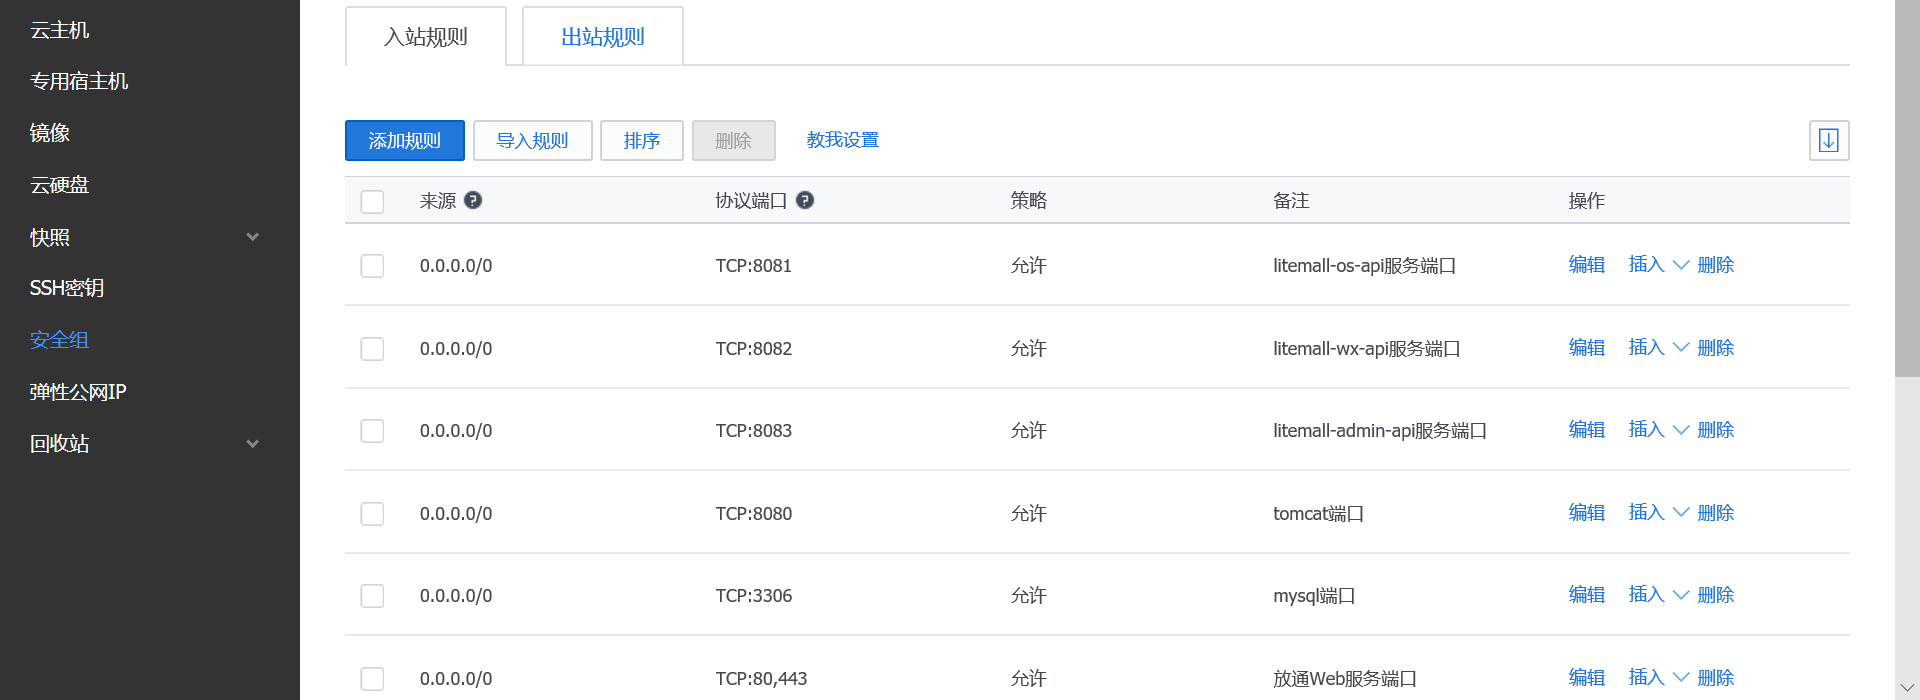
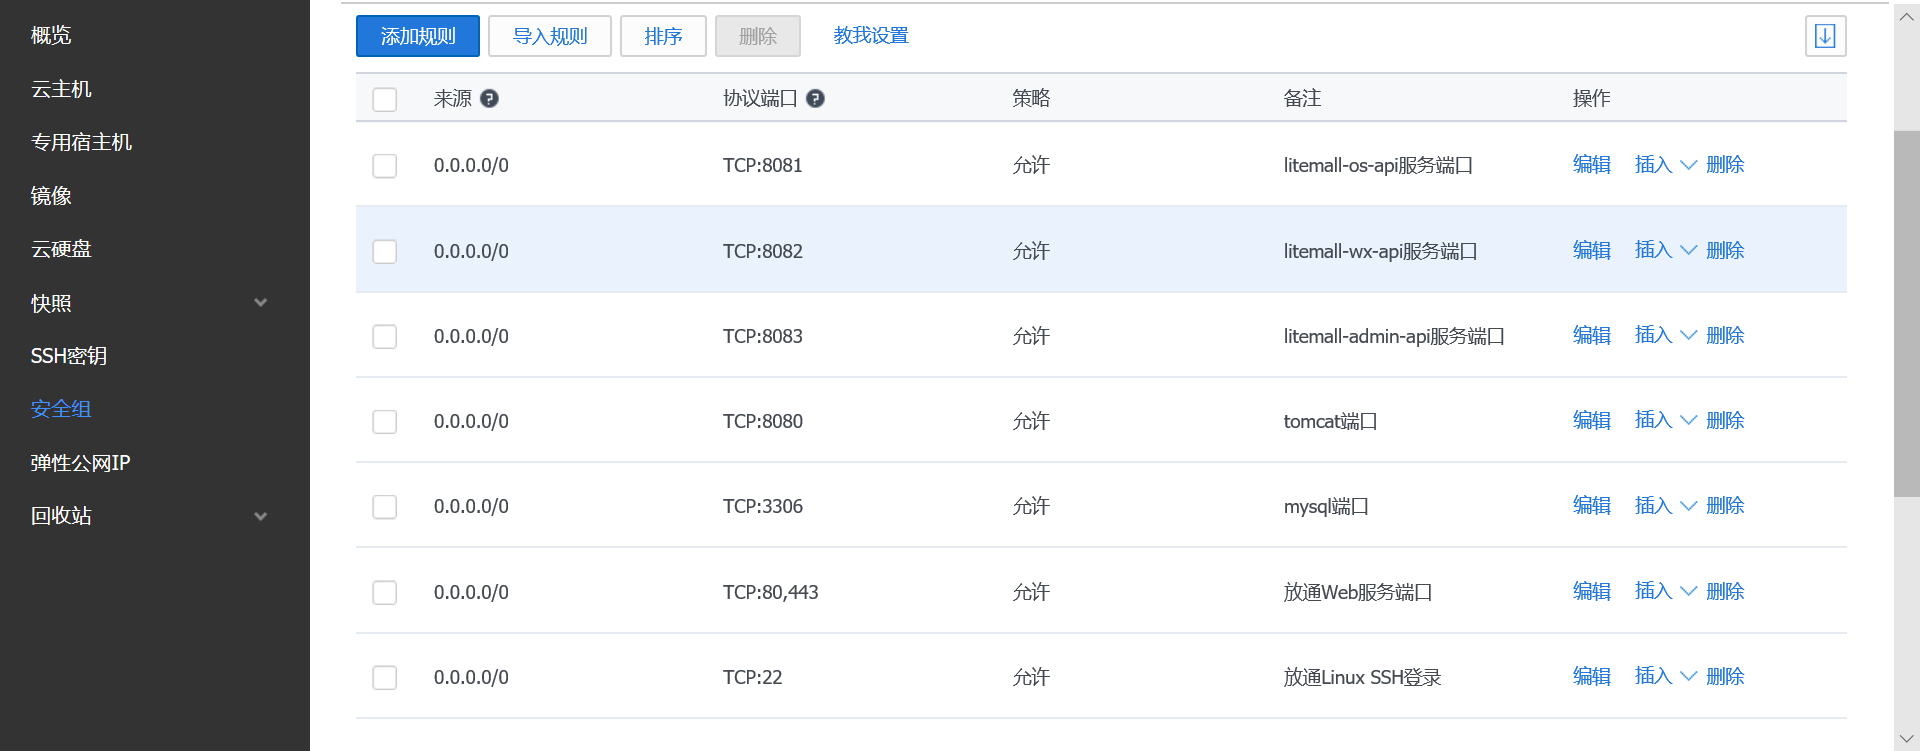
1. 进一步完善文档。 2. util/upload.sh自动上传脚本

diff --git a/doc/1.md b/doc/1.md
@@ -127,9 +127,9 @@ litemall是一个简单的商场系统，基于现有的开源项目，重新实
 
 * 数据库方面，只是简单的表，表和表之间的依赖关系没有采用外键设计，而是依赖Java代码在service层面或者业务层面保证。这样做的好处是数据库频繁改动很方便，不会因为外键而导致数据库难以修改;
 * 涉及三种技术栈，但是每种技术栈仅涉及最基础的技术；
- * 后端技术栈，仅涉及 Spring，Spring Boot, Spring MVC和Mybatis技术，其他后端技术暂时不采用;
- * 小程序技术栈，仅涉及miniprogram官方文档和nideshop-mini-program项目；
- * 前端技术栈，仅涉及vue, vuex, vue-route，element-ui技术和vue-element-admin项目；
+  * 后端技术栈，仅涉及 Spring，Spring Boot, Spring MVC和Mybatis技术，其他后端技术暂时不采用;
+  * 小程序技术栈，仅涉及miniprogram官方文档和nideshop-mini-program项目；
+  * 前端技术栈，仅涉及vue, vuex, vue-route，element-ui技术和vue-element-admin项目；
 * 安全方面，仅采用最基本的代码，提供简单基本的安全服务;
 * 性能方面，没有涉及内存数据库缓存功能，而是完全依赖MySQL;
 * 对象存储服务（图片上传和下载）方面，没有采用云存储方案，而是实现自有的简单文件上传下载功能。对象只是简单存储在后台主机的一个文件夹中，从而解耦当前项目对对象存储云平台的依赖，同时加强对对象存储概念的理解。
@@ -156,27 +156,28 @@ litemall是一个简单的商场系统，基于现有的开源项目，重新实
 ### 1.4.1 Spring Boot开发环境
 
 1. 安装JDK8
-2. 安装IDEA Community
-3. 安装maven
-4. 安装Git（可选）
+2. 安装maven
+3. 安装Git（可选）
+4. 安装IDEA Community
+  建议安装maven插件和Git插件
 5. IDEA导入本项目
-6. 采用maven插件安装依赖库
+6. 采用maven命令行或者IDEA的maven插件安装本项目依赖库
 7. 编译本项目
 8. 运行litemall-os-api, 打开浏览器，输入
-```
-http://localhost:8081/storage/index/index
-```
-如果出现JSON数据，则Spring Boot开发环境部署成功，litemall-os-api模块运行正常。
+    ```
+    http://localhost:8081/storage/index/index
+    ```
+    如果出现JSON数据，则Spring Boot开发环境部署成功，litemall-os-api模块运行正常。
 9. 同上，运行litemall-wx-api, 打开浏览器，输入 
-```
-http://localhost:8082/wx/index/index
-```
-如果出现JSON数据，则litemall-wx-api模块运行正常。
+    ```
+    http://localhost:8082/wx/index/index
+    ```
+    如果出现JSON数据，则litemall-wx-api模块运行正常。
 10. 同上，运行litemall-admin-api, 打开浏览器，输入 
-```
-http://localhost:8083/admin/index/index
-```
-如果出现JSON数据，则litemall-admin-api模块运行正常。
+    ```
+    http://localhost:8083/admin/index/index
+    ```
+    如果出现JSON数据，则litemall-admin-api模块运行正常。
 
 注意：
 > 由于设置了三个不同的端口，因此开发时，IDEA可以同时运行litemall-os-api、litemall-wx-api和litemall-admin-api三个Spring Boot程序。
@@ -185,7 +186,7 @@ http://localhost:8083/admin/index/index
 
 1. 安装微信小程序开发工具
 2. 导入本项目的litemall-wx模块文件夹
-3. 编译前，请确定litemall-wx-api模块已经运行，而litemall-wx模块的config文件夹中的api.js已经设置正确对应的后台数据服务地址；
+3. 编译前，请确定litemall-wx-api模块已经运行，而litemall-wx模块的config文件夹中的api.js已经设置正确的后台数据服务地址；
 4. 点击`编译`，如果出现数据和图片，则运行正常
 
 ### 1.4.3 Vue开发环境
@@ -203,8 +204,8 @@ http://localhost:8083/admin/index/index
     ```
     cnpm run dev
     ```
-然后，打开浏览器，输入`http://localhost:9527`。
-如果出现管理后台登陆页面，则表明管理后台的前端运行正常；
+    然后，打开浏览器，输入`http://localhost:9527`。
+    如果出现管理后台登陆页面，则表明管理后台的前端运行正常；
 6. 请确定litemall-admin-api模块已经运行，然后点击`登陆`，如果能够成功登陆，则表明管理后台的前端和后端对接成功，运行正常。
 
 ## 1.5 部署方案
@@ -212,6 +213,7 @@ http://localhost:8083/admin/index/index
 在1.4节中介绍的是开发阶段时一些关键性开发流程。本节将介绍代码开发成功以后开始部署项目时一些关键性流程。
 
 首先，需要明确的是开发时项目使用的服务地址是本地地址，即localhost；而部署时则应该根据具体情况设置合理的服务器地址和端口。
+
 其次，需要明确的是各模块之间的关系：
   
   * litemall-os-api模块会包含litemall-db模块，部署在服务器中
@@ -219,7 +221,7 @@ http://localhost:8083/admin/index/index
   * litemall-admin-api模块会包含litemall-db模块，部署在服务器中
   * litemall-wx模块部署在腾讯官方平台中，此外数据API地址指向litemall-wx-api所在服务qi地址
   * litemall-admin编译出的静态文件放在web服务器或者tomcat服务器，此外服务器地址设置指向3中litemall-admin-api所在地址
-
+  
 注意
 > * 这里litemall-os-api、litemall-admin-api和litemall-wx-api也可以选择编译成jar模式的可执行文件（因为内嵌tomcat服务器），然后直接运行。
 > * litemall-wx正式部署时需要设置https开头的合法域名，因此litemall-wx-api所在的服务器需要配置合适的域名和SSL证书，具体参见官方文档。
@@ -244,13 +246,14 @@ http://localhost:8083/admin/index/index
 而项目开发完毕以后，在正式部署之前，可以先进行一个简单的本机测试部署方案。
 
 首先，需要确保本地MySQL已经安装并且导入了litemall.sql数据；
+
 其次，项目打包
 ```
 cd litemall
 mvn clean
 mvn package
 ```
-最后，本机测试性部署三个应用
+最后，本机测试性部署三个Spring Boot应用
 ```
 cd litemall
 java -jar ./litemall-os-api/target/litemall-os-api-0.1.0.jar &
@@ -272,22 +275,37 @@ http://localhost:8083/admin/index/index
 局域网方案，面向的是最终服务器数据和部分应用程序部署在局域网内的场景。
 
 ### 1.5.3 基于ubuntu腾讯云的单机云部署方案
-单机云部署方案，面向的是云主机单机同时部署演示型场景
-创建云主机，安装ubuntu操作系统，按照JDK和MySQL应用运行环境，部署三个Spring Boot微服务后台应用。
+单机云部署方案，面向的是服务器数据和应用部署在云主机单机中用于演示的场景。
+
+主要流程是：创建云主机，安装ubuntu操作系统，按照JDK和MySQL应用运行环境，部署三个Spring Boot微服务后台应用，
+以及部署后台静态文件。
 
 ![](pic1/1-3.png)
 
 #### 1.5.3.1 主机
 
-腾讯云 ubuntu 16.04.1
+请参考腾讯云官方文档进行相关操作。
 
 1. 创建云主机虚拟机
+
 2. 安装操作系统
+
+   本项目采用ubuntu 16.04.1，但是并不限制其他操作系统。
+
 3. 创建安全组
-![](pic1/1-4.png)
-4. 安装SSH密钥（可选）
+
+    ![](pic1/1-4.png)
+
+    目前允许的端口：8081，8082，8083，8080，80，443，22，3306
+    
+4. 设置SSH密钥（可选）
+
+    建议用户设置SSH密钥，可以免密码登陆云主机，以及用于脚本自动上传应用。
+
 5. 使用PuTTY远程登陆云主机
 
+    如果用户设置SSH密钥，可以采用免密码登陆；否则采用账号和密码登陆。
+    
 #### 1.5.3.2 JDK8
 
 https://www.digitalocean.com/community/tutorials/how-to-install-java-with-apt-get-on-ubuntu-16-04
@@ -316,24 +334,23 @@ sudo apt-get install mysql-client
 
 下面是可选地设置root账号远程访问MySQL
 
-首先，MySQL默认不支持远程访问，因此需要修改配置文件
-```
-sudo vi /etc/mysql/mysql.conf.d/mysqld.cnf
-```
-添加'#'注释掉其中的`bind-address`,
-```
-#bind-address= 127.0.0.1`;
-```
+1. MySQL默认不支持远程访问，因此需要修改配置文件
+    ```
+    sudo vi /etc/mysql/mysql.conf.d/mysqld.cnf
+    ``` 
+    添加'#'注释掉其中的`bind-address`,
+    ```
+    #bind-address= 127.0.0.1`;
+    ```
 
-其次，设置root账号远程访问权限
-```
-mysql -u root -p
-GRANT ALL PRIVILEGES ON *.* TO 'root'@'%' IDENTIFIED BY '123456' WITH GRANT OPTION;
-FLUSH PRIVILEGES;
-quit;
-```
-
-最后，登陆腾讯云，设置云主机的`安全组`，允许`3306`端口访问，然后重启云主机，使得这些配置生效。
+2. 设置root账号远程访问权限
+    ```
+    mysql -u root -p
+    GRANT ALL PRIVILEGES ON *.* TO 'root'@'%' IDENTIFIED BY '123456' WITH GRANT OPTION;
+    FLUSH PRIVILEGES;
+    quit;
+    ```
+3. 登陆腾讯云，设置云主机的`安全组`，允许`3306`端口访问，然后重启云主机，使得这些配置生效。
 
 警告
 > 1. 因为安全的原因，MySQL不应该设置远程访问，
@@ -358,7 +375,7 @@ quit;
 
 1. 先确认已经在1.4.3节中设置了root可以远程访问；
 2. 创建一个新的连接，设置`Hostname` 、`Username` 和`Password`，
-然后点击``Test Connection`测试是否能够连接到云主机；
+然后点击`Test Connection`测试是否能够连接到云主机；
 如果测试成功，则进入；
 ![](pic1/1-5.png)
 3. 用户自行学习文档，完成`创建数据库`、`创建用户`和`分配权限`三个操作；
@@ -367,20 +384,27 @@ quit;
 #### 1.5.3.5 Tomcat
 
 1. 本项目中采用二进制jar包方式来部署Spring Boot后端应用，因此可以不需要部署在tomcat中。
-但是，litemall-admin前端项目最终会编译出静态文件，需要部署在服务器中，因此这里仍需安装tomcat。
+但是，litemall-admin前端项目最终会编译出静态文件，需要部署在服务器中，因此这里仍需安装tomcat(或者其他服务器)。
 
     ```bash
     sudo apt-get install tomcat8
     ```
 
-2. 为了配置tomcat支持外部文件夹中，修改tomcat的server文件
+2. 为了配置tomcat支持外部文件夹中，修改tomcat的server文件的`Host`标签
   
     ```bash
     sudo vi /var/lib/tomcat8/conf/server.xml
     ```
-    在其中添加一行新的内容`<Context path="/" docBase="/home/ubuntu/deploy/litemall-admin/dist" reloadable="true" />`
-
-3. 然后，重启tomcat
+    在其中添加一行新的内容
+    ```
+    <Host>
+    ...
+    <Context path="/" docBase="/home/ubuntu/deploy/litemall-admin/dist" reloadable="true" />
+    ...
+    </Host>
+    ```
+    
+3. 重启tomcat
 
     ```
     sudo service tomcat8 restart
@@ -405,25 +429,29 @@ cd litemall
 mvn clean
 mvn package
 ```
+此时，在litemall-os-api项目的target文件夹中看到litemall-os-xxx.jar；
+在litemall-wx-api项目的target文件夹中看到litemall-wx-xxx.jar；
+在litemall-admin-api项目的target文件夹中看到litemall-admin-xxx.jar。
 
 2. Vue项目打包
 
 采用如下命令进行项目打包
 
 ````bash
+cd litemall/litemall-admin
 cnpm run build:prod
 ````
 
-此时，litemall-admin模块的dist文件夹中就是最终部署时的代码。
+此时，litemall-admin模块的dist文件夹中就是最终部署时的代码，可以先压缩，上传到云主机，再解压缩。
 
 #### 1.5.3.6 项目部署运行
 
 https://docs.spring.io/spring-boot/docs/1.5.10.RELEASE/reference/htmlsingle/#deployment-service
 
 1. 项目进一步打包到deploy文件夹中：
-   * litemall-os-api模块编译得到的litemall-os-api-0.1.0.jar 保存到deploy的litemall-os-api文件夹中，同时重命名成litemall-os-api.jar
-   * litemall-wx-api模块编译得到的litemall-wx-api-0.1.0.jar 保存到deploy的litemall-wx-api文件夹中，同时重命名成litemall-wx-api.jar
-   * litemall-admin-api模块编译得到的litemall-admin-api-0.1.0.jar 保存到deploy的litemall-admin-api文件夹中，同时重命名成litemall-admin-api.jar
+   * litemall-os-api模块编译得到的litemall-os-api-xxx.jar 保存到deploy的litemall-os-api文件夹中，同时重命名成litemall-os-api.jar
+   * litemall-wx-api模块编译得到的litemall-wx-api-xxx.jar 保存到deploy的litemall-wx-api文件夹中，同时重命名成litemall-wx-api.jar
+   * litemall-admin-api模块编译得到的litemall-admin-api-xxx.jar 保存到deploy的litemall-admin-api文件夹中，同时重命名成litemall-admin-api.jar
    * litemall-admin模块编译以后，把dist文件夹压缩，然后放到deploy的litemall-admin文件夹中。
    
 2. 使用FileZilla把deploy整个文件夹上传到云主机的/home/ubuntu文件夹中
@@ -435,12 +463,20 @@ https://docs.spring.io/spring-boot/docs/1.5.10.RELEASE/reference/htmlsingle/#dep
     ```bash
     sudo ./deploy/bin/deploy.sh
     ```
-    ![](pic1/1-6.png)    
+    ![](pic1/1-6.png)
+ 
 5. 测试部署是否成功
-请确保litemall的Spring Boot应用模块所对应的端口已经打开；
-然后测试是否能够访问(xxx.xxx.xxx.xxx是云主机IP）：
 
-  > http://xxx.xxx.xxx.xxx:8081/storage/index/index
-  > http://xxx.xxx.xxx.xxx:8082/wx/index/index
-  > http://xxx.xxx.xxx.xxx:8083/admin/index/index
-    
+    请确保云主机的安全组已经允许相应的端口（见1.5.3.1）；
+    然后测试是否部署成功(xxx.xxx.xxx.xxx是云主机IP）：
+
+    ```
+    http://xxx.xxx.xxx.xxx:8081/storage/index/index
+    http://xxx.xxx.xxx.xxx:8082/wx/index/index
+    http://xxx.xxx.xxx.xxx:8083/admin/index/index
+    http://xxx.xxx.xxx.xxx:8080/#/login
+    ```
+
+6. 自动上传脚本
+
+    为了简化步骤1和步骤2，完成了util/upload.sh脚本，用户需要设置相应的云主机IP和密钥文件路径

diff --git a/README.md b/README.md
@@ -109,11 +109,19 @@ litemall
 ==
 
 本项目基于或参考以下项目：
-> 1. nideshop-mini-program
+> 1. [nideshop-mini-program](https://github.com/tumobi/nideshop-mini-program)
 > 如果后端希望采用nodejs，用户可以访问nideshop项目
-> 2. platform
+> 2. [platform](https://gitee.com/fuyang_lipengjun/platform)
 > 如果后端希望采用非spring boot版的普通spring版或者更多功能，
 > 用户可以访问platform项目
-> 3. vue-element-admin
+> 3. [vue-element-admin](https://github.com/PanJiaChen/vue-element-admin)
+> 一个基于Vue和Element的后台集成方案
 
 本项目所依赖的其他开源项目见相关章节
+
+问题
+==
+
+用户有问题或者好的建议可以用Issues反馈交流，请给出详细信息，本人会尽可能解决。
+ * 如果问题是共性问题（如代码bug或文档不全），本人会及时解决。
+ * 如果问题是个人问题（如用户了解不深入或者没有相关技术），请见谅（本人也是百度和谷歌）。

diff --git a/deploy/README.md b/deploy/README.md
@@ -16,9 +16,17 @@
     ```
 
 5. 测试部署是否成功
-请确保litemall的Spring Boot应用模块所对应的端口已经打开；
-然后测试是否能够访问(xxx.xxx.xxx.xxx是云主机IP）：
+  
+    请确保云主机的安全组已经允许相应的端口（见1.5.3.1）；
+    然后测试是否部署成功(xxx.xxx.xxx.xxx是云主机IP）：
 
-  > http://xxx.xxx.xxx.xxx:8081/storage/index/index
-  > http://xxx.xxx.xxx.xxx:8082/wx/index/index
-  > http://xxx.xxx.xxx.xxx:8083/admin/index/index
+    ```
+    http://xxx.xxx.xxx.xxx:8081/storage/index/index
+    http://xxx.xxx.xxx.xxx:8082/wx/index/index
+    http://xxx.xxx.xxx.xxx:8083/admin/index/index
+    http://xxx.xxx.xxx.xxx:8080/#/login
+    ```
+
+6. 自动上传脚本
+
+    为了简化步骤1和步骤2，完成了util/upload.sh脚本，用户需要设置相应的云主机IP和密钥文件路径
